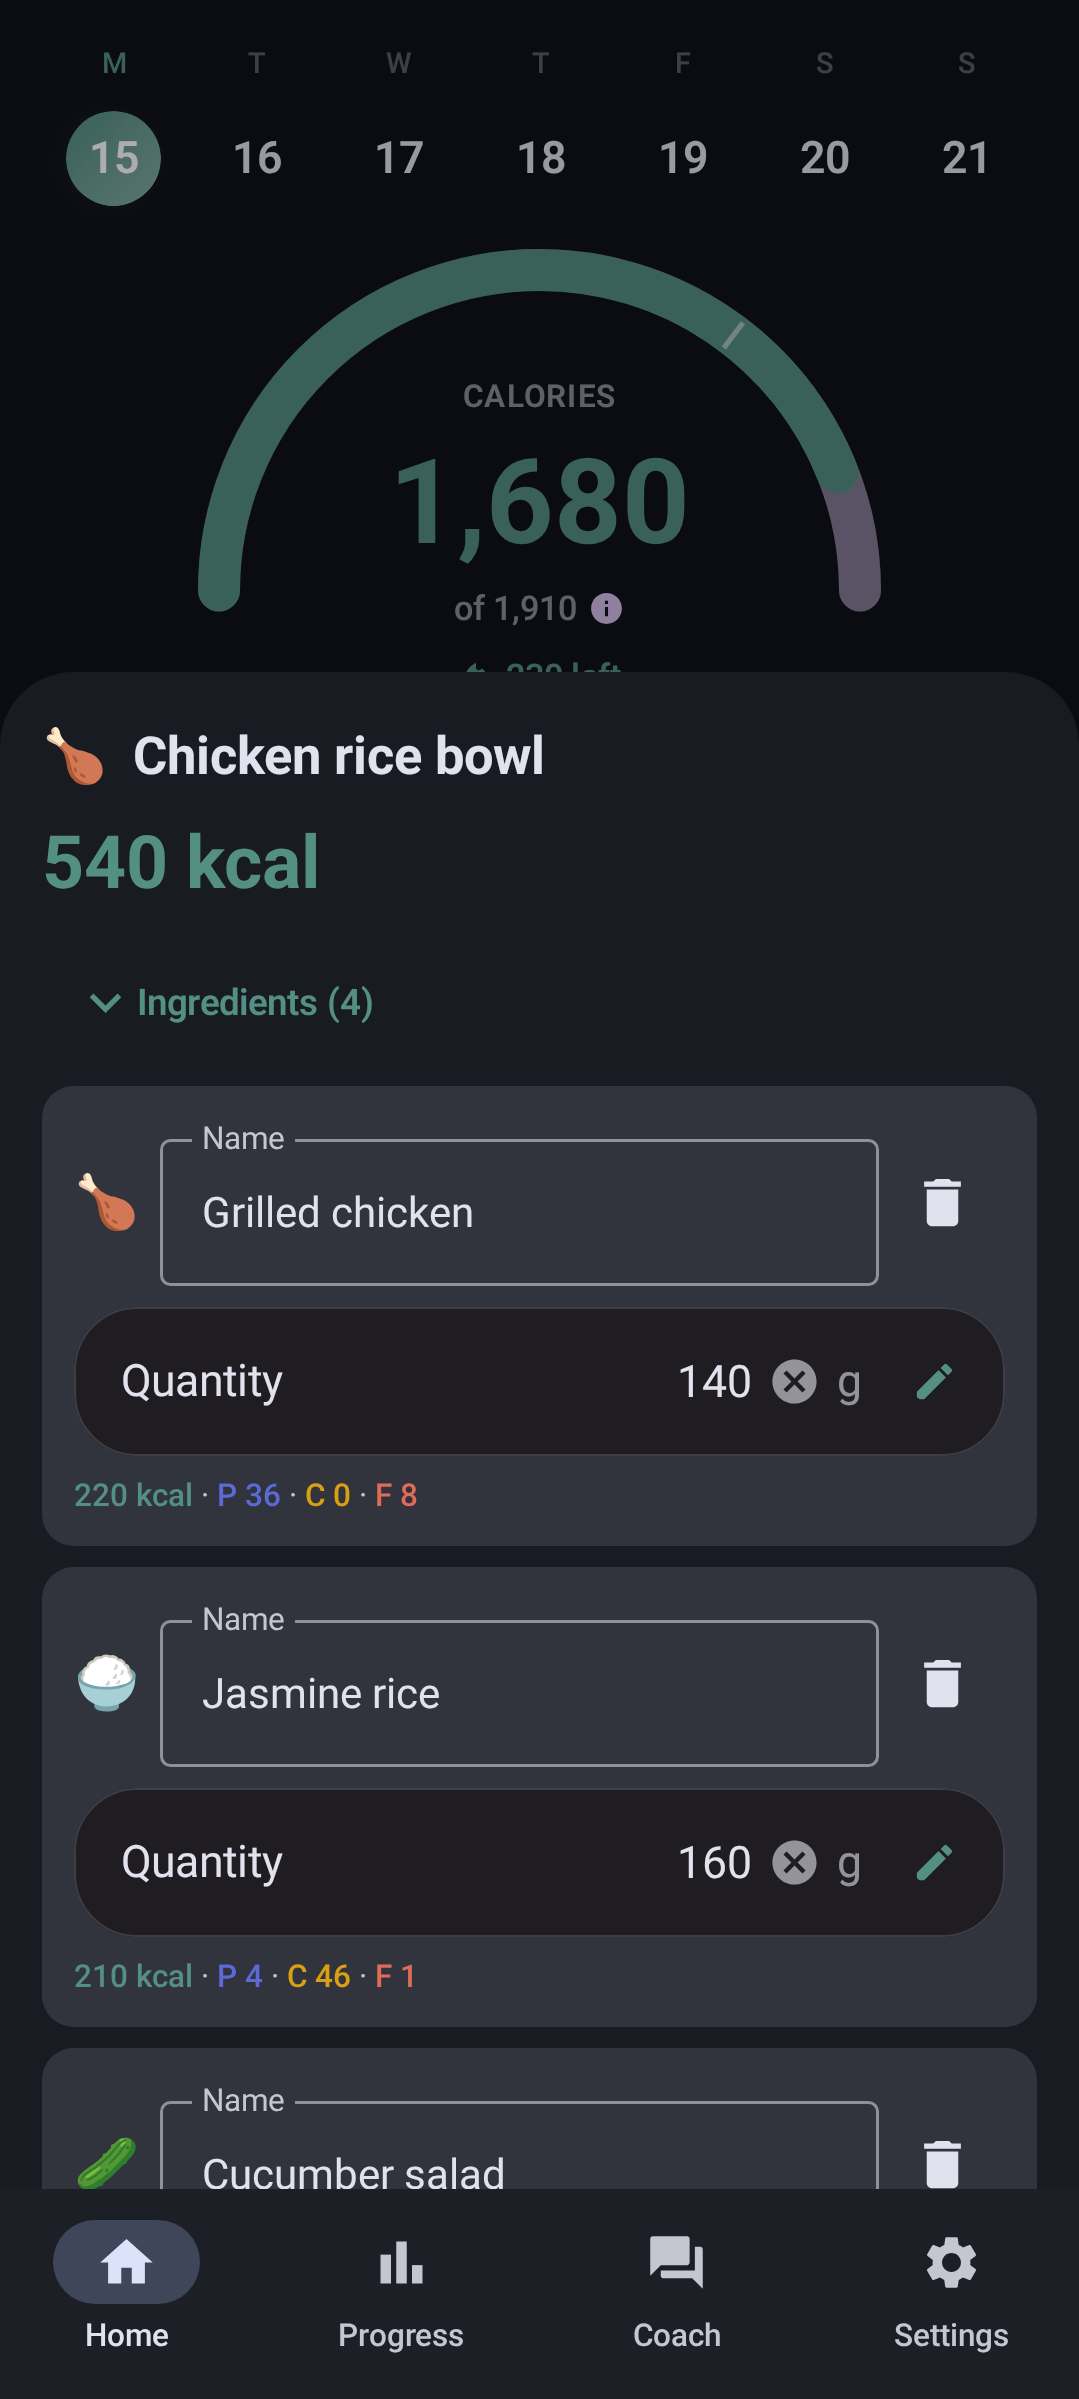
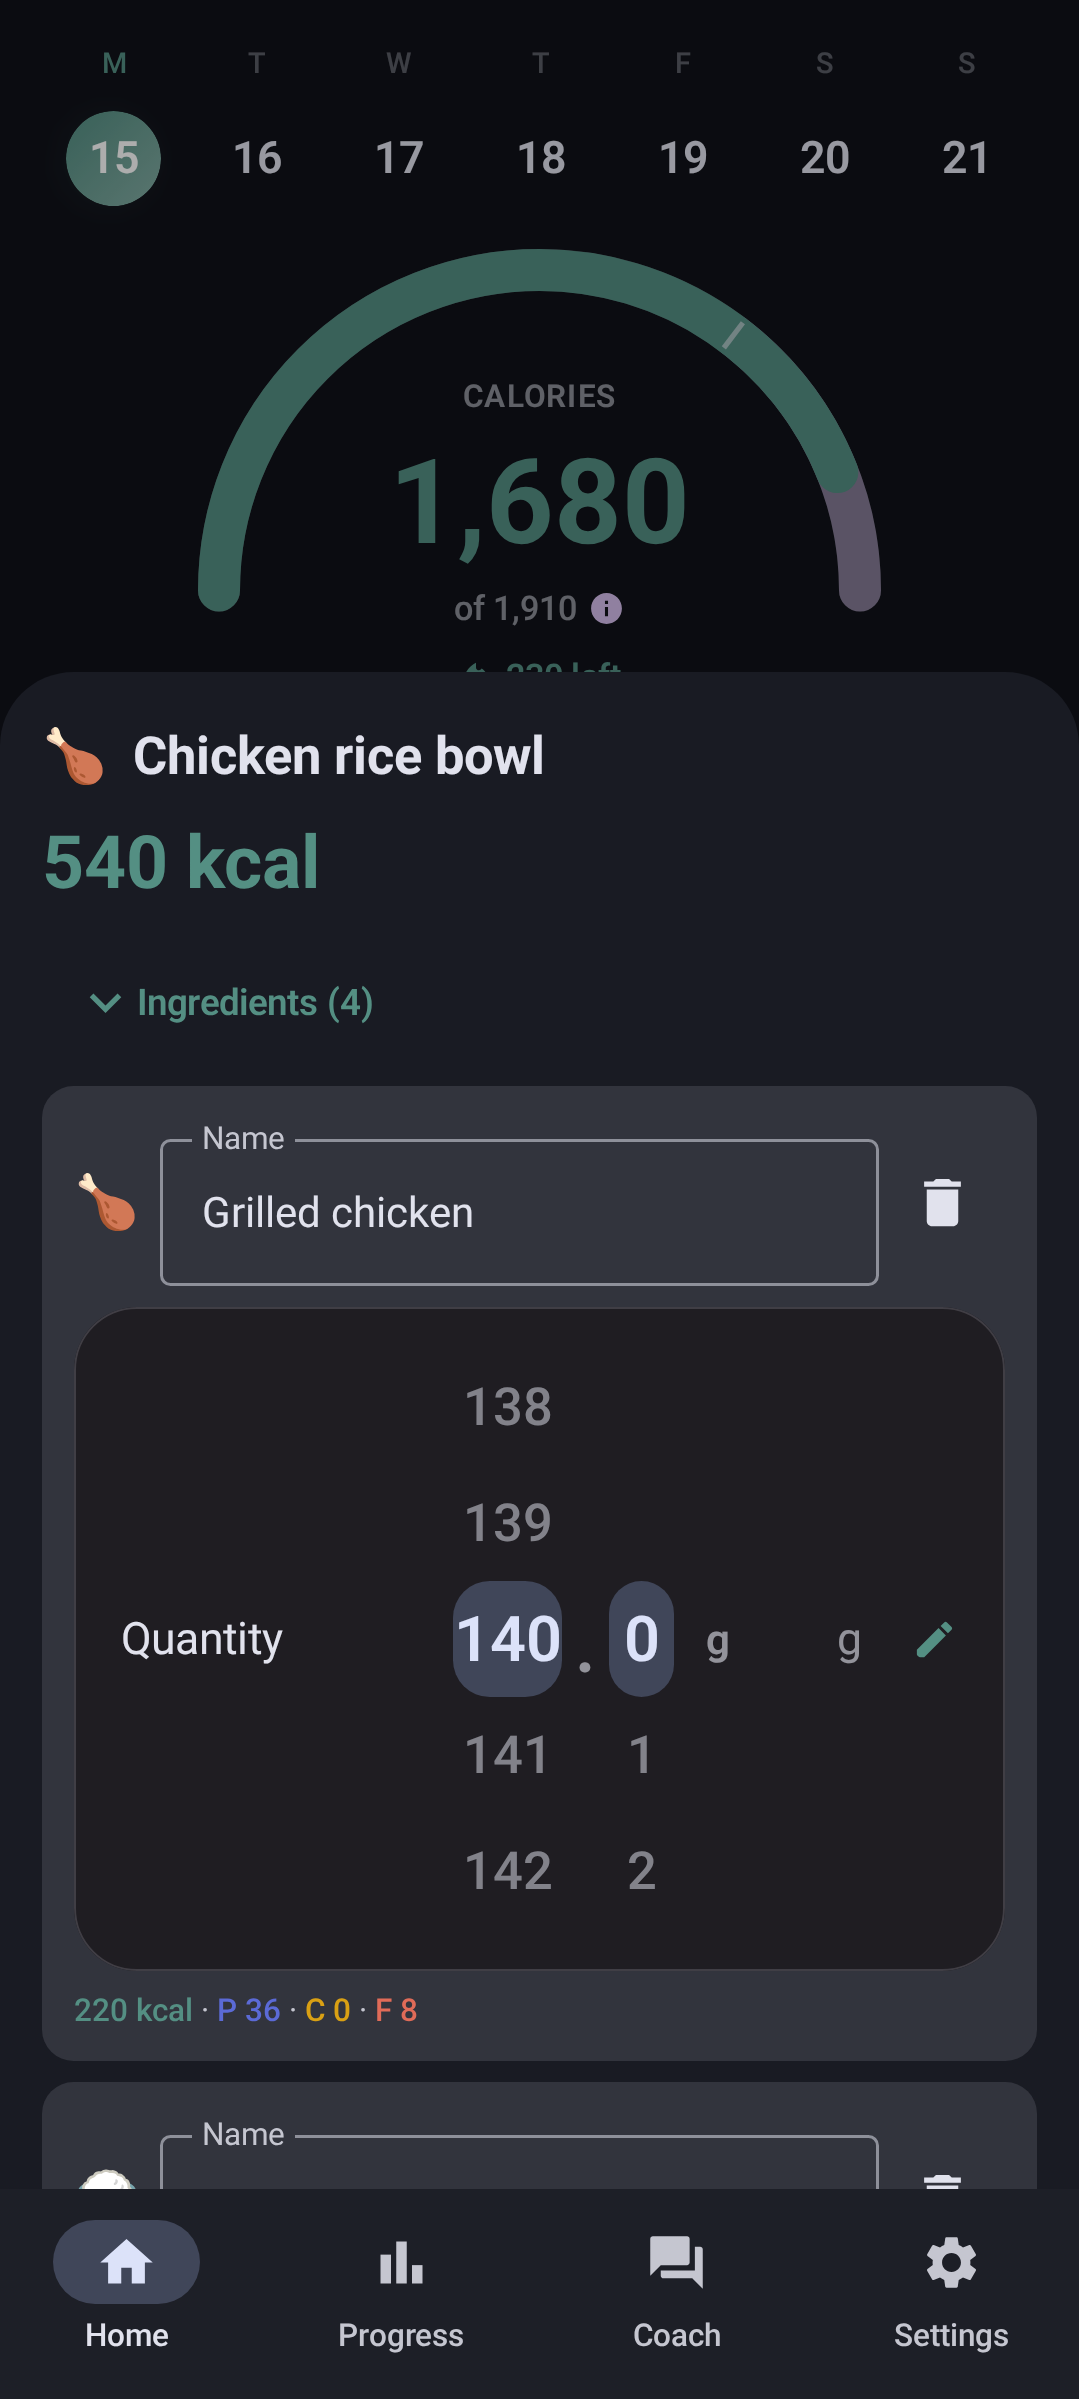
release: 3.20.0

Changed region(s): [[0.0306, 0.5552, 0.9787, 0.9254]]

diff --git a/docs/CHANGELOG.md b/docs/CHANGELOG.md
@@ -4,11 +4,13 @@ All notable changes to Chompass are documented here.
 
 Style: entries follow the release-text style guide (maintainer-local, not published; user-visible first, no emdashes, no internals). The version section is pasted verbatim onto the Codeberg release.
 
-## [3.20.0] - unreleased
+## [3.20.0] - 2026-08-19
 
 ### Added
 
-- **OLED appearance mode** (Android): a new OLED option in Settings → Appearance turns the app and all four home-screen widgets true black, so OLED screens can switch pixels off. Text and accent colors stay the same as Dark mode. Choosing Light or Dark explicitly now also applies to the widgets, not just the app.
+- **OLED appearance mode** (Android): a new OLED option in Settings → App & Display → Appearance turns the app and all four home-screen widgets true black, so OLED screens can switch pixels off. Text and accent colors stay the same as Dark mode. Choosing Light or Dark explicitly now also applies to the widgets, not just the app.
+- **Per-app language selector** (Android): a Language row in Settings → App & Display switches the whole interface to any of the 16 supported languages, independent of the system language. The choice is saved and survives restarts; System follows the device language.
+- **Wheel pickers for entering values** (Android): calories, macros, serving size, meal times, water, manual activity, AI settings, and photo notes now use scrollable wheel pickers instead of typed fields. Time wheels follow the 12 or 24 hour format of the app language.
 - **Buy fitguy a yogurt** (Android + web): a Ko-fi donation link now appears in the app's About screen, the website footer and download page, the PWA About screen, and the README. The F-Droid listing's donation link points to Ko-fi instead of the repository. Closes Codeberg [#36](https://codeberg.org/fitguy/Chompass/issues/36) by [@tpapastylianou](https://codeberg.org/tpapastylianou).
 
 ## [3.19.0] - 2026-08-18
